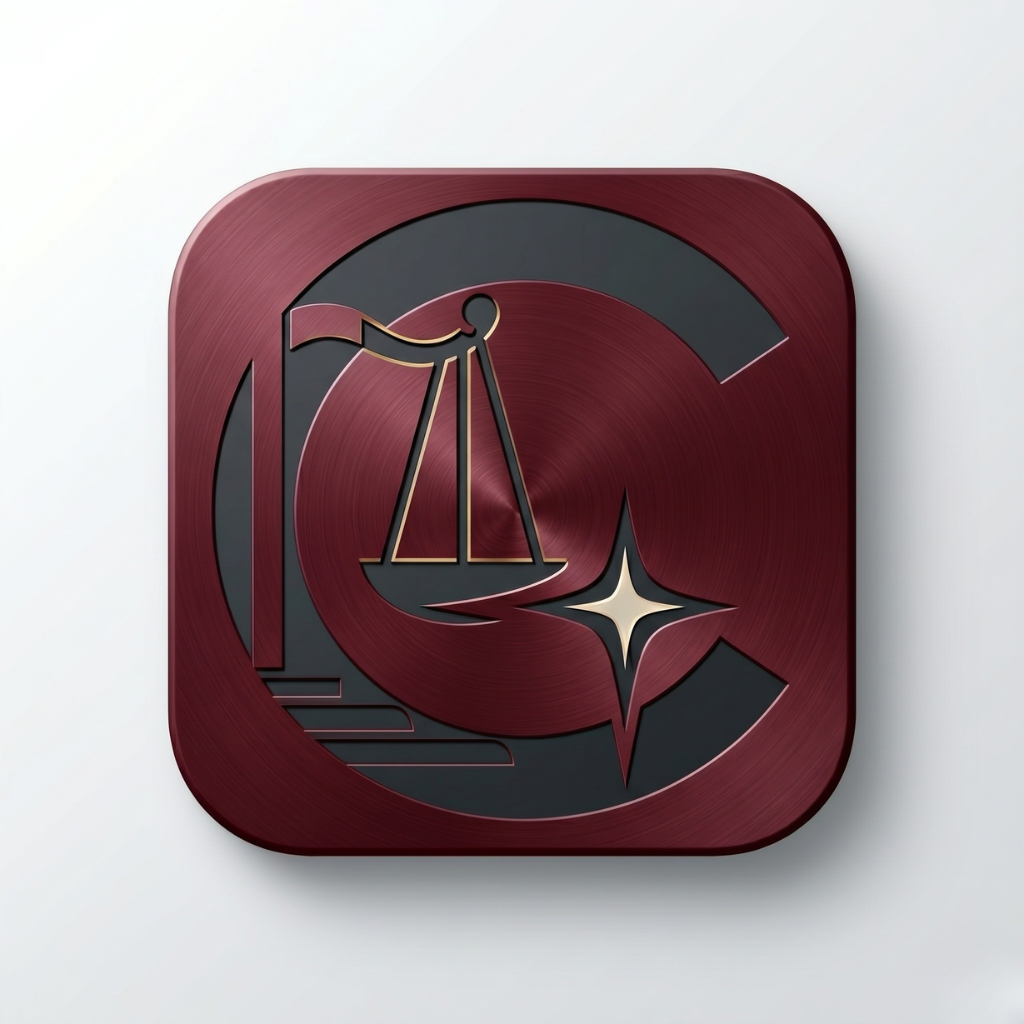
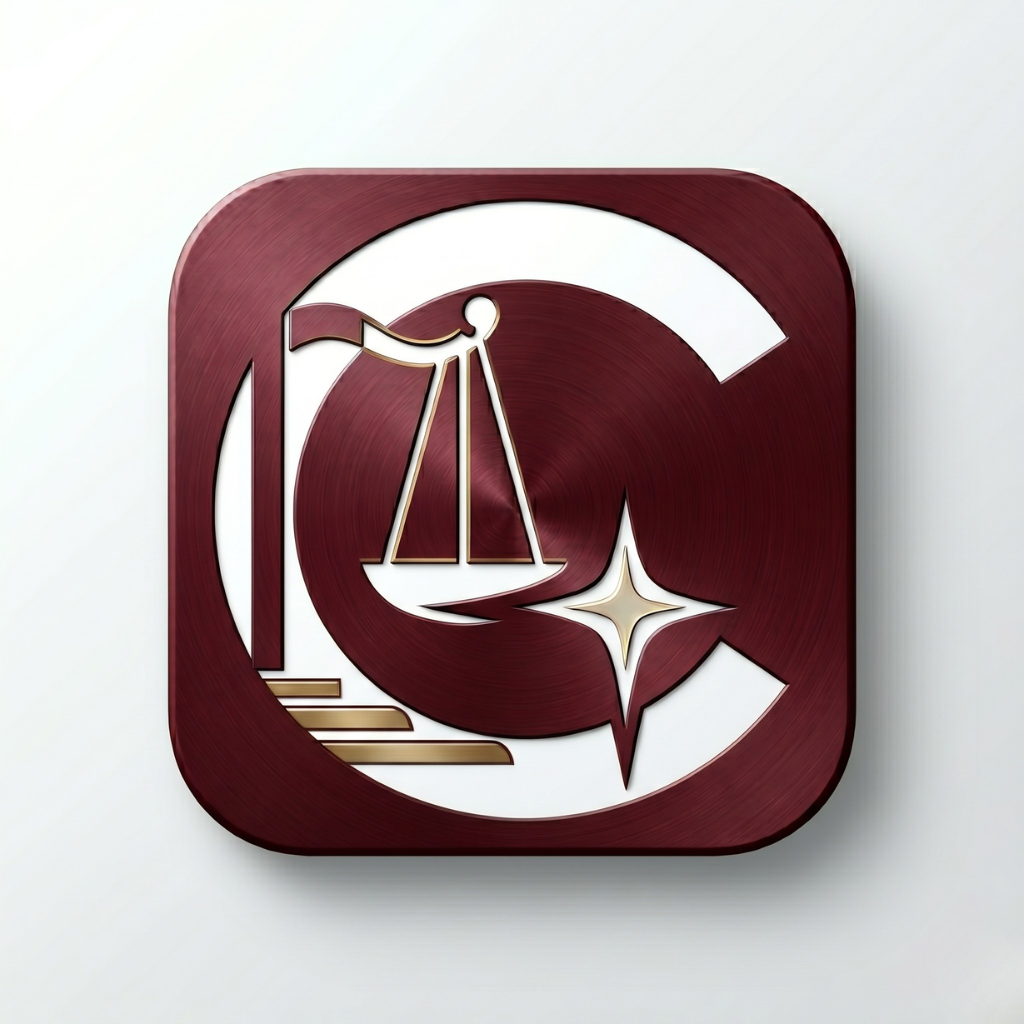
bug fixes

Changed region(s): [[0.1875, 0.1875, 0.7812, 0.8125]]

diff --git a/frontend/lib/app/splash_screen.dart b/frontend/lib/app/splash_screen.dart
@@ -6,7 +6,10 @@ import 'package:flutter_riverpod/flutter_riverpod.dart';
 import 'package:go_router/go_router.dart';
 import 'package:video_player/video_player.dart';
 
+import 'package:firebase_auth/firebase_auth.dart';
+
 import 'package:clair/core/theme/appearance_provider.dart';
+import 'package:clair/features/auth/presentation/providers/auth_provider.dart';
 
 class SplashScreen extends ConsumerStatefulWidget {
   const SplashScreen({super.key});
@@ -84,7 +87,7 @@ class _SplashScreenState extends ConsumerState<SplashScreen>
     if (dur - pos <= _navTrigger) _navigate();
   }
 
-  void _navigate() {
+  Future<void> _navigate() async {
     if (_navigated || !mounted) return;
     _navigated = true;
     SystemChrome.setEnabledSystemUIMode(SystemUiMode.edgeToEdge);
@@ -92,7 +95,20 @@ class _SplashScreenState extends ConsumerState<SplashScreen>
       statusBarColor: Colors.transparent,
       systemNavigationBarColor: Colors.transparent,
     ));
-    context.go('/login');
+
+    // Check for an existing Firebase session so users don't have to
+    // re-login every time they close and reopen the app.
+    final firebaseUser = FirebaseAuth.instance.currentUser;
+    if (firebaseUser != null && !firebaseUser.isAnonymous) {
+      final user = await ref.read(authRepositoryProvider).getCurrentUser();
+      if (user != null && mounted) {
+        ref.read(currentUserProvider.notifier).state = user;
+        context.go('/home');
+        return;
+      }
+    }
+
+    if (mounted) context.go('/login');
   }
 
   @override

diff --git a/frontend/lib/shared/widgets/app_drawer.dart b/frontend/lib/shared/widgets/app_drawer.dart
@@ -24,6 +24,7 @@ class _AppDrawerState extends ConsumerState<AppDrawer> {
   Widget build(BuildContext context) {
     final cl = context.c;
     final l10n = AppLocalizations.of(context)!;
+    final currentTab = ref.watch(mainShellTabProvider);
     final historyState = ref.watch(historyProvider);
     
     // Load recent chats once; avoid re-fetch (sets isLoading) on every drawer open.
@@ -104,11 +105,11 @@ class _AppDrawerState extends ConsumerState<AppDrawer> {
             padding: const EdgeInsets.symmetric(horizontal: 12, vertical: 10),
             children: [
               _label(context, l10n.drawerNavigate),
-              _item(context, Icons.home_outlined, l10n.drawerHome, true, () {
+              _item(context, Icons.home_outlined, l10n.drawerHome, currentTab == 0, () {
                 Navigator.pop(context);
                 ref.read(mainShellTabProvider.notifier).state = 0;
               }),
-              _item(context, Icons.chat_bubble_outline, l10n.drawerNewChat, false, () async {
+              _item(context, Icons.chat_bubble_outline, l10n.drawerNewChat, currentTab == 1, () async {
                 Navigator.pop(context);
                 if (!await resetChatWithGuestGuard(context: context, ref: ref) ||
                     !context.mounted) {
@@ -116,15 +117,15 @@ class _AppDrawerState extends ConsumerState<AppDrawer> {
                 }
                 ref.read(mainShellTabProvider.notifier).state = 1;
               }),
-              _item(context, Icons.library_books_rounded, l10n.drawerChatLibrary, false, () {
+              _item(context, Icons.library_books_rounded, l10n.drawerChatLibrary, currentTab == 2, () {
                 Navigator.pop(context);
                 ref.read(mainShellTabProvider.notifier).state = 2;
               }),
-              _item(context, Icons.balance_rounded, l10n.drawerFindLawyer, false, () {
+              _item(context, Icons.balance_rounded, l10n.drawerFindLawyer, currentTab == 3, () {
                 Navigator.pop(context);
                 ref.read(mainShellTabProvider.notifier).state = 3;
               }),
-              _item(context, Icons.event_note_outlined, l10n.drawerAppointments, false, () {
+              _item(context, Icons.event_note_outlined, l10n.drawerAppointments, currentTab == 4, () {
                 Navigator.pop(context);
                 ref.read(mainShellTabProvider.notifier).state = 4;
               }),